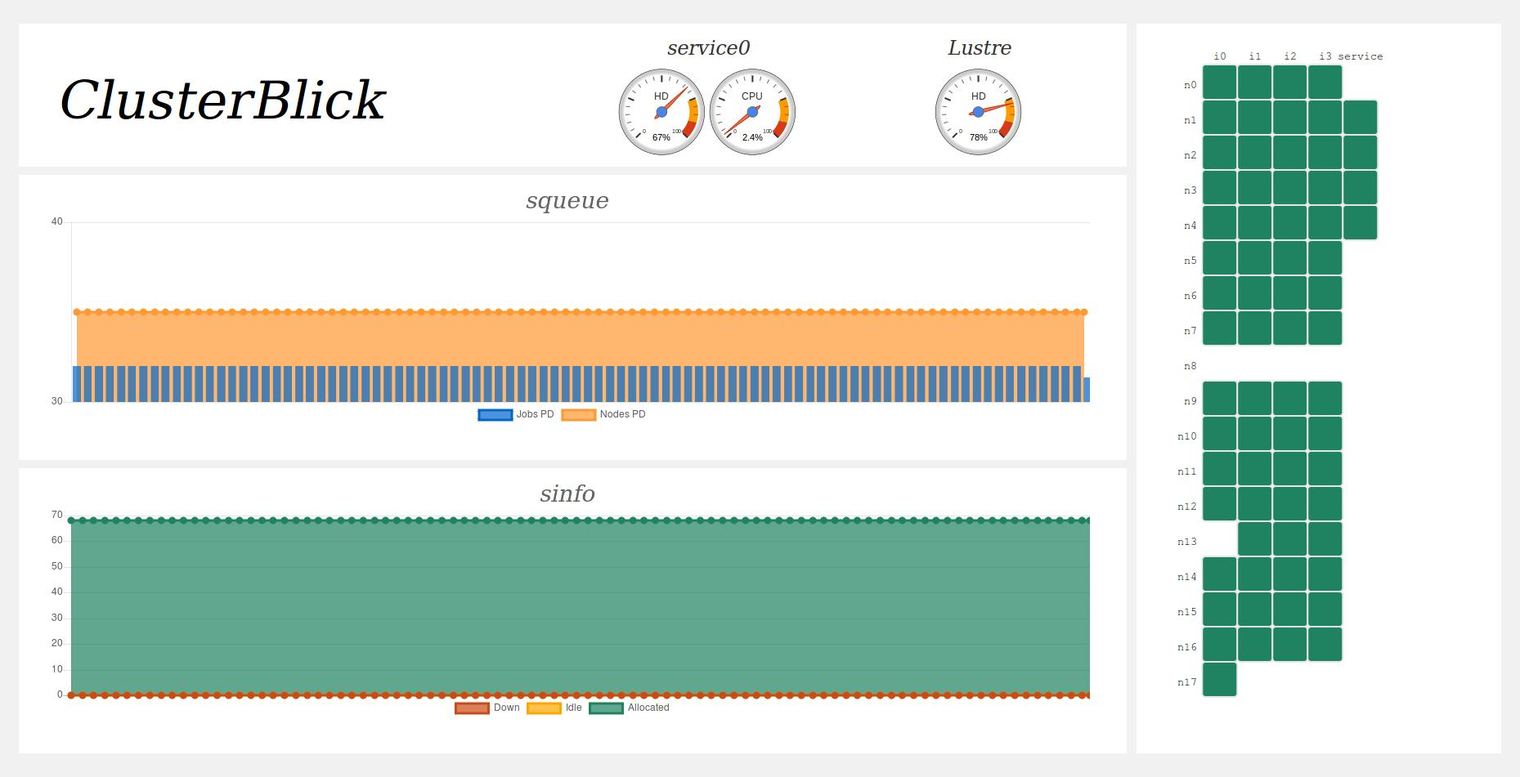
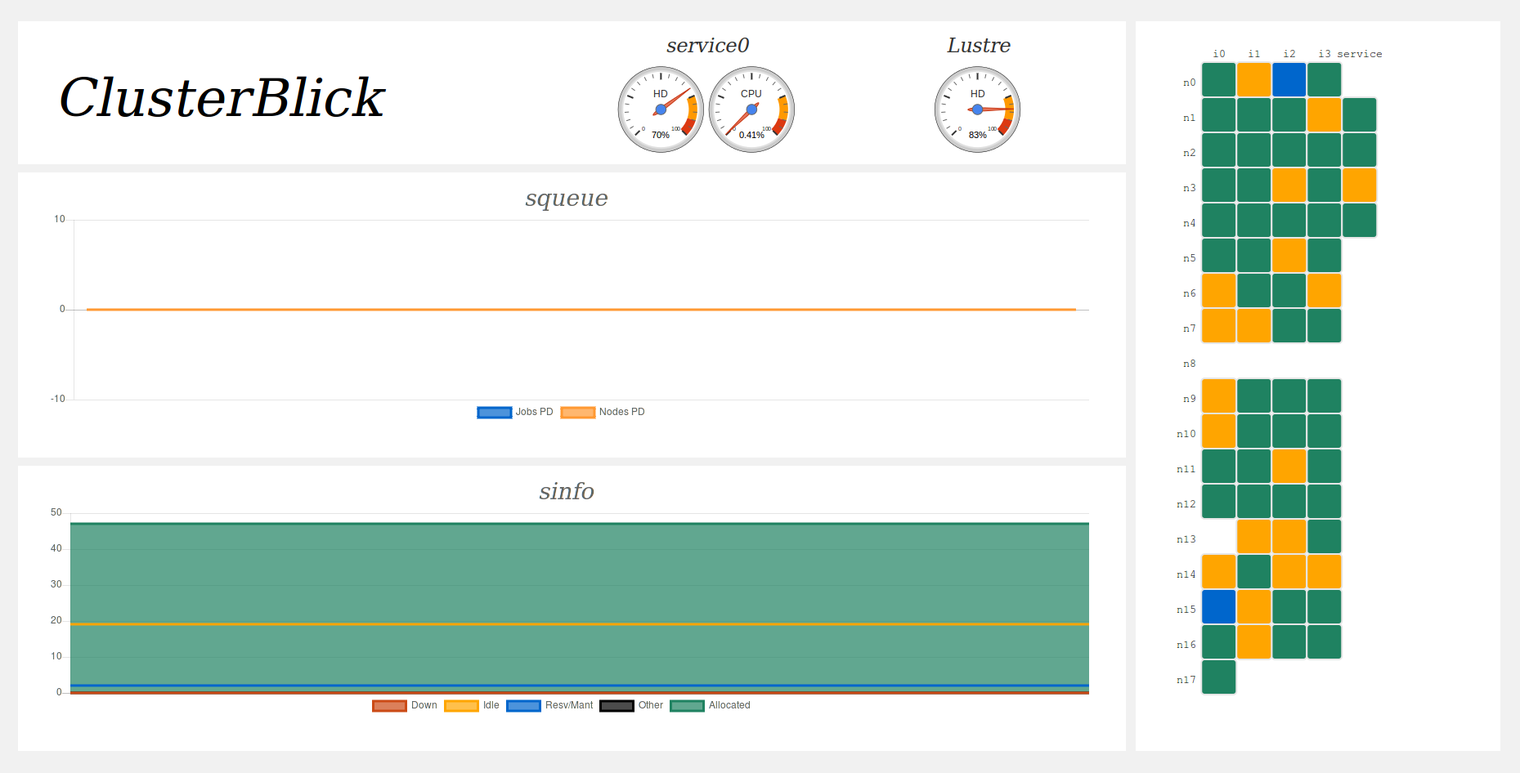
clusterblick v1.0.0

diff --git a/project/app/js/squeue1.js b/project/app/js/squeue1.js
@@ -1,1 +1,1 @@
-var squeue1 = [{"NODELIST(REASON)": "r1i2n16", "TIME": "6-16:22:03", "USER": "jldcarva", "NAME": "sat1p3", "JOBID": "21333", "NODES": "1", "PARTITION": "cluster", "ST": "R"}, {"NODELIST(REASON)": "r1i3n7", "TIME": "6-16:22:21", "USER": "jldcarva", "NAME": "sat1p1", "JOBID": "21331", "NODES": "1", "PARTITION": "cluster", "ST": "R"}, {"NODELIST(REASON)": "r1i1n9", "TIME": "6-16:22:24", "USER": "jldcarva", "NAME": "sat10p3", "JOBID": "21330", "NODES": "1", "PARTITION": "cluster", "ST": "R"}, {"NODELIST(REASON)": "r1i0n1", "TIME": "6-18:15:44", "USER": "jldcarva", "NAME": "sat10p2", "JOBID": "21329", "NODES": "1", "PARTITION": "cluster", "ST": "R"}, {"NODELIST(REASON)": "r1i2n9", "TIME": "6-18:47:18", "USER": "jldcarva", "NAME": "sat10p1", "JOBID": "21328", "NODES": "1", "PARTITION": "cluster", "ST": "R"}, {"NODELIST(REASON)": "r1i3n11", "TIME": "6-19:02:48", "USER": "jldcarva", "NAME": "sat24p3", "JOBID": "21327", "NODES": "1", "PARTITION": "cluster", "ST": "R"}, {"NODELIST(REASON)": "r1i2n2", "TIME": "6-19:04:07", "USER": "jldcarva", "NAME": "sat24p2", "JOBID": "21326", "NODES": "1", "PARTITION": "cluster", "ST": "R"}, {"NODELIST(REASON)": "r1i1n1", "TIME": "6-19:15:25", "USER": "jldcarva", "NAME": "sat24p1", "JOBID": "21325", "NODES": "1", "PARTITION": "cluster", "ST": "R"}, {"NODELIST(REASON)": "service4", "TIME": "6-22:45:42", "USER": "jldcarva", "NAME": "sat25p1", "JOBID": "21322", "NODES": "1", "PARTITION": "cluster", "ST": "R"}, {"NODELIST(REASON)": "r1i1n3", "TIME": "6-22:49:22", "USER": "jldcarva", "NAME": "sat30p1", "JOBID": "21319", "NODES": "1", "PARTITION": "cluster", "ST": "R"}, {"NODELIST(REASON)": "r1i2n1", "TIME": "5-19:08:03", "USER": "rctheodo", "NAME": "Blast", "JOBID": "21384", "NODES": "1", "PARTITION": "cluster", "ST": "R"}, {"NODELIST(REASON)": "r1i0n12", "TIME": "1-03:43:45", "USER": "clfirme", "NAME": "hdrxabe", "JOBID": "21602", "NODES": "1", "PARTITION": "cluster", "ST": "R"}, {"NODELIST(REASON)": "r1i0n2", "TIME": "2-16:28:03", "USER": "clfirme", "NAME": "e2_etoxi", "JOBID": "21503", "NODES": "1", "PARTITION": "cluster", "ST": "R"}, {"NODELIST(REASON)": "r1i2n15", "TIME": "4-15:02:53", "USER": "rmtromer", "NAME": "MD_porph", "JOBID": "21369", "NODES": "1", "PARTITION": "cluster", "ST": "R"}, {"NODELIST(REASON)": "r1i0n[3-5],r1i3n15", "TIME": "10-12:45:19", "USER": "jdandrad", "NAME": "QM.GMS", "JOBID": "21196", "NODES": "4", "PARTITION": "cluster", "ST": "R"}, {"NODELIST(REASON)": "r1i2n[4,6-7],service1", "TIME": "6-14:40:39", "USER": "lfcperei", "NAME": "lammps", "JOBID": "21309", "NODES": "4", "PARTITION": "cluster", "ST": "R"}, {"NODELIST(REASON)": "r1i1n12", "TIME": "14-07:05:08", "USER": "crcosta", "NAME": "ELF_399", "JOBID": "21003", "NODES": "1", "PARTITION": "cluster", "ST": "R"}, {"NODELIST(REASON)": "r1i3n3", "TIME": "14-07:31:52", "USER": "crcosta", "NAME": "ELF_370", "JOBID": "21002", "NODES": "1", "PARTITION": "cluster", "ST": "R"}, {"NODELIST(REASON)": "r1i3n16", "TIME": "14-07:47:49", "USER": "crcosta", "NAME": "ELF_380", "JOBID": "21001", "NODES": "1", "PARTITION": "cluster", "ST": "R"}, {"NODELIST(REASON)": "r1i3n0", "TIME": "14-07:48:19", "USER": "crcosta", "NAME": "ELF_320", "JOBID": "21000", "NODES": "1", "PARTITION": "cluster", "ST": "R"}, {"NODELIST(REASON)": "r1i0n17", "TIME": "2-01:09:18", "USER": "crcosta", "NAME": "ELF_905", "JOBID": "21537", "NODES": "1", "PARTITION": "cluster", "ST": "R"}, {"NODELIST(REASON)": "r1i3n9", "TIME": "2-01:09:21", "USER": "crcosta", "NAME": "ELF_903", "JOBID": "21535", "NODES": "1", "PARTITION": "cluster", "ST": "R"}, {"NODELIST(REASON)": "r1i0n16", "TIME": "2-01:09:21", "USER": "crcosta", "NAME": "ELF_904", "JOBID": "21536", "NODES": "1", "PARTITION": "cluster", "ST": "R"}, {"NODELIST(REASON)": "r1i1n14", "TIME": "2-01:09:24", "USER": "crcosta", "NAME": "ELF_901", "JOBID": "21533", "NODES": "1", "PARTITION": "cluster", "ST": "R"}, {"NODELIST(REASON)": "r1i3n5", "TIME": "2-01:09:24", "USER": "crcosta", "NAME": "ELF_902", "JOBID": "21534", "NODES": "1", "PARTITION": "cluster", "ST": "R"}, {"NODELIST(REASON)": "r1i1n11", "TIME": "2-01:09:28", "USER": "crcosta", "NAME": "ELF_900", "JOBID": "21532", "NODES": "1", "PARTITION": "cluster", "ST": "R"}, {"NODELIST(REASON)": "r1i1n2", "TIME": "3-20:46:28", "USER": "sddcunha", "NAME": "385_2560", "JOBID": "21451", "NODES": "1", "PARTITION": "cluster", "ST": "R"}, {"NODELIST(REASON)": "r1i3n13", "TIME": "3-21:05:54", "USER": "sddcunha", "NAME": "385_2560", "JOBID": "21448", "NODES": "1", "PARTITION": "cluster", "ST": "R"}, {"NODELIST(REASON)": "r1i1n4", "TIME": "4-01:56:55", "USER": "sddcunha", "NAME": "385_2560", "JOBID": "21440", "NODES": "1", "PARTITION": "cluster", "ST": "R"}, {"NODELIST(REASON)": "r1i3n2", "TIME": "4-01:59:09", "USER": "sddcunha", "NAME": "385_2560", "JOBID": "21438", "NODES": "1", "PARTITION": "cluster", "ST": "R"}, {"NODELIST(REASON)": "r1i0n9", "TIME": "1-07:09:56", "USER": "sddcunha", "NAME": "449_6400", "JOBID": "21598", "NODES": "1", "PARTITION": "cluster", "ST": "R"}, {"NODELIST(REASON)": "r1i0n10", "TIME": "1-07:17:56", "USER": "sddcunha", "NAME": "449_6400", "JOBID": "21597", "NODES": "1", "PARTITION": "cluster", "ST": "R"}, {"NODELIST(REASON)": "service2", "TIME": "1-21:51:49", "USER": "rmtromer", "NAME": "Fe_topCC", "JOBID": "21574", "NODES": "1", "PARTITION": "cluster", "ST": "R"}, {"NODELIST(REASON)": "r1i3n4", "TIME": "3-13:34:28", "USER": "sddcunha", "NAME": "1_256000", "JOBID": "21460", "NODES": "1", "PARTITION": "cluster", "ST": "R"}, {"NODELIST(REASON)": "r1i3n12", "TIME": "3-13:34:38", "USER": "sddcunha", "NAME": "1_256000", "JOBID": "21459", "NODES": "1", "PARTITION": "cluster", "ST": "R"}, {"NODELIST(REASON)": "r1i3n10", "TIME": "3-13:34:46", "USER": "sddcunha", "NAME": "1_256000", "JOBID": "21458", "NODES": "1", "PARTITION": "cluster", "ST": "R"}, {"NODELIST(REASON)": "r1i2n12", "TIME": "3-13:34:56", "USER": "sddcunha", "NAME": "1_256000", "JOBID": "21457", "NODES": "1", "PARTITION": "cluster", "ST": "R"}, {"NODELIST(REASON)": "r1i2n10", "TIME": "3-13:49:17", "USER": "sddcunha", "NAME": "385_2560", "JOBID": "21456", "NODES": "1", "PARTITION": "cluster", "ST": "R"}, {"NODELIST(REASON)": "r1i1n10", "TIME": "3-13:49:36", "USER": "sddcunha", "NAME": "385_2560", "JOBID": "21455", "NODES": "1", "PARTITION": "cluster", "ST": "R"}, {"NODELIST(REASON)": "r1i1n5", "TIME": "3-13:49:47", "USER": "sddcunha", "NAME": "385_2560", "JOBID": "21454", "NODES": "1", "PARTITION": "cluster", "ST": "R"}, {"NODELIST(REASON)": "r1i0n11", "TIME": "3-13:50:09", "USER": "sddcunha", "NAME": "385_2560", "JOBID": "21453", "NODES": "1", "PARTITION": "cluster", "ST": "R"}, {"NODELIST(REASON)": "r1i1n6", "TIME": "19:38:19", "USER": "joaoNPAD", "NAME": "t_6_24", "JOBID": "21624", "NODES": "1", "PARTITION": "cluster", "ST": "R"}];
+var squeue1 = [{"NODELIST(REASON)": "r1i2n16", "TIME": "6-19:57:15", "USER": "jldcarva", "NAME": "sat1p3", "JOBID": "21333", "NODES": "1", "PARTITION": "cluster", "ST": "R"}, {"NODELIST(REASON)": "r1i3n7", "TIME": "6-19:57:33", "USER": "jldcarva", "NAME": "sat1p1", "JOBID": "21331", "NODES": "1", "PARTITION": "cluster", "ST": "R"}, {"NODELIST(REASON)": "r1i1n9", "TIME": "6-19:57:36", "USER": "jldcarva", "NAME": "sat10p3", "JOBID": "21330", "NODES": "1", "PARTITION": "cluster", "ST": "R"}, {"NODELIST(REASON)": "r1i0n1", "TIME": "6-21:50:56", "USER": "jldcarva", "NAME": "sat10p2", "JOBID": "21329", "NODES": "1", "PARTITION": "cluster", "ST": "R"}, {"NODELIST(REASON)": "r1i2n9", "TIME": "6-22:22:30", "USER": "jldcarva", "NAME": "sat10p1", "JOBID": "21328", "NODES": "1", "PARTITION": "cluster", "ST": "R"}, {"NODELIST(REASON)": "r1i3n11", "TIME": "6-22:38:00", "USER": "jldcarva", "NAME": "sat24p3", "JOBID": "21327", "NODES": "1", "PARTITION": "cluster", "ST": "R"}, {"NODELIST(REASON)": "r1i2n2", "TIME": "6-22:39:19", "USER": "jldcarva", "NAME": "sat24p2", "JOBID": "21326", "NODES": "1", "PARTITION": "cluster", "ST": "R"}, {"NODELIST(REASON)": "r1i1n1", "TIME": "6-22:50:37", "USER": "jldcarva", "NAME": "sat24p1", "JOBID": "21325", "NODES": "1", "PARTITION": "cluster", "ST": "R"}, {"NODELIST(REASON)": "service4", "TIME": "7-02:20:54", "USER": "jldcarva", "NAME": "sat25p1", "JOBID": "21322", "NODES": "1", "PARTITION": "cluster", "ST": "R"}, {"NODELIST(REASON)": "r1i1n3", "TIME": "7-02:24:34", "USER": "jldcarva", "NAME": "sat30p1", "JOBID": "21319", "NODES": "1", "PARTITION": "cluster", "ST": "R"}, {"NODELIST(REASON)": "r1i2n1", "TIME": "5-22:43:15", "USER": "rctheodo", "NAME": "Blast", "JOBID": "21384", "NODES": "1", "PARTITION": "cluster", "ST": "R"}, {"NODELIST(REASON)": "r1i0n12", "TIME": "1-07:18:57", "USER": "clfirme", "NAME": "hdrxabe", "JOBID": "21602", "NODES": "1", "PARTITION": "cluster", "ST": "R"}, {"NODELIST(REASON)": "r1i0n2", "TIME": "2-20:03:15", "USER": "clfirme", "NAME": "e2_etoxi", "JOBID": "21503", "NODES": "1", "PARTITION": "cluster", "ST": "R"}, {"NODELIST(REASON)": "r1i2n15", "TIME": "4-18:38:05", "USER": "rmtromer", "NAME": "MD_porph", "JOBID": "21369", "NODES": "1", "PARTITION": "cluster", "ST": "R"}, {"NODELIST(REASON)": "r1i0n[3-5],r1i3n15", "TIME": "10-16:20:31", "USER": "jdandrad", "NAME": "QM.GMS", "JOBID": "21196", "NODES": "4", "PARTITION": "cluster", "ST": "R"}, {"NODELIST(REASON)": "r1i2n[4,6-7],service1", "TIME": "6-18:15:51", "USER": "lfcperei", "NAME": "lammps", "JOBID": "21309", "NODES": "4", "PARTITION": "cluster", "ST": "R"}, {"NODELIST(REASON)": "r1i1n12", "TIME": "14-10:40:20", "USER": "crcosta", "NAME": "ELF_399", "JOBID": "21003", "NODES": "1", "PARTITION": "cluster", "ST": "R"}, {"NODELIST(REASON)": "r1i3n3", "TIME": "14-11:07:04", "USER": "crcosta", "NAME": "ELF_370", "JOBID": "21002", "NODES": "1", "PARTITION": "cluster", "ST": "R"}, {"NODELIST(REASON)": "r1i3n16", "TIME": "14-11:23:01", "USER": "crcosta", "NAME": "ELF_380", "JOBID": "21001", "NODES": "1", "PARTITION": "cluster", "ST": "R"}, {"NODELIST(REASON)": "r1i3n0", "TIME": "14-11:23:31", "USER": "crcosta", "NAME": "ELF_320", "JOBID": "21000", "NODES": "1", "PARTITION": "cluster", "ST": "R"}, {"NODELIST(REASON)": "r1i0n17", "TIME": "2-04:44:30", "USER": "crcosta", "NAME": "ELF_905", "JOBID": "21537", "NODES": "1", "PARTITION": "cluster", "ST": "R"}, {"NODELIST(REASON)": "r1i3n9", "TIME": "2-04:44:33", "USER": "crcosta", "NAME": "ELF_903", "JOBID": "21535", "NODES": "1", "PARTITION": "cluster", "ST": "R"}, {"NODELIST(REASON)": "r1i0n16", "TIME": "2-04:44:33", "USER": "crcosta", "NAME": "ELF_904", "JOBID": "21536", "NODES": "1", "PARTITION": "cluster", "ST": "R"}, {"NODELIST(REASON)": "r1i1n14", "TIME": "2-04:44:36", "USER": "crcosta", "NAME": "ELF_901", "JOBID": "21533", "NODES": "1", "PARTITION": "cluster", "ST": "R"}, {"NODELIST(REASON)": "r1i3n5", "TIME": "2-04:44:36", "USER": "crcosta", "NAME": "ELF_902", "JOBID": "21534", "NODES": "1", "PARTITION": "cluster", "ST": "R"}, {"NODELIST(REASON)": "r1i1n11", "TIME": "2-04:44:40", "USER": "crcosta", "NAME": "ELF_900", "JOBID": "21532", "NODES": "1", "PARTITION": "cluster", "ST": "R"}, {"NODELIST(REASON)": "r1i1n2", "TIME": "4-00:21:40", "USER": "sddcunha", "NAME": "385_2560", "JOBID": "21451", "NODES": "1", "PARTITION": "cluster", "ST": "R"}, {"NODELIST(REASON)": "r1i3n13", "TIME": "4-00:41:06", "USER": "sddcunha", "NAME": "385_2560", "JOBID": "21448", "NODES": "1", "PARTITION": "cluster", "ST": "R"}, {"NODELIST(REASON)": "r1i1n4", "TIME": "4-05:32:07", "USER": "sddcunha", "NAME": "385_2560", "JOBID": "21440", "NODES": "1", "PARTITION": "cluster", "ST": "R"}, {"NODELIST(REASON)": "r1i3n2", "TIME": "4-05:34:21", "USER": "sddcunha", "NAME": "385_2560", "JOBID": "21438", "NODES": "1", "PARTITION": "cluster", "ST": "R"}, {"NODELIST(REASON)": "r1i0n0", "TIME": "2:28:44", "USER": "rmtromer", "NAME": "Co_holNC", "JOBID": "21665", "NODES": "1", "PARTITION": "cluster", "ST": "R"}, {"NODELIST(REASON)": "service2", "TIME": "2-01:27:01", "USER": "rmtromer", "NAME": "Fe_topCC", "JOBID": "21574", "NODES": "1", "PARTITION": "cluster", "ST": "R"}, {"NODELIST(REASON)": "r1i3n4", "TIME": "3-17:09:40", "USER": "sddcunha", "NAME": "1_256000", "JOBID": "21460", "NODES": "1", "PARTITION": "cluster", "ST": "R"}, {"NODELIST(REASON)": "r1i3n12", "TIME": "3-17:09:50", "USER": "sddcunha", "NAME": "1_256000", "JOBID": "21459", "NODES": "1", "PARTITION": "cluster", "ST": "R"}, {"NODELIST(REASON)": "r1i3n10", "TIME": "3-17:09:58", "USER": "sddcunha", "NAME": "1_256000", "JOBID": "21458", "NODES": "1", "PARTITION": "cluster", "ST": "R"}, {"NODELIST(REASON)": "r1i2n12", "TIME": "3-17:10:08", "USER": "sddcunha", "NAME": "1_256000", "JOBID": "21457", "NODES": "1", "PARTITION": "cluster", "ST": "R"}, {"NODELIST(REASON)": "r1i2n10", "TIME": "3-17:24:29", "USER": "sddcunha", "NAME": "385_2560", "JOBID": "21456", "NODES": "1", "PARTITION": "cluster", "ST": "R"}, {"NODELIST(REASON)": "r1i1n10", "TIME": "3-17:24:48", "USER": "sddcunha", "NAME": "385_2560", "JOBID": "21455", "NODES": "1", "PARTITION": "cluster", "ST": "R"}, {"NODELIST(REASON)": "r1i1n5", "TIME": "3-17:24:59", "USER": "sddcunha", "NAME": "385_2560", "JOBID": "21454", "NODES": "1", "PARTITION": "cluster", "ST": "R"}, {"NODELIST(REASON)": "r1i0n11", "TIME": "3-17:25:21", "USER": "sddcunha", "NAME": "385_2560", "JOBID": "21453", "NODES": "1", "PARTITION": "cluster", "ST": "R"}, {"NODELIST(REASON)": "r1i1n6", "TIME": "23:13:31", "USER": "joaoNPAD", "NAME": "t_6_24", "JOBID": "21624", "NODES": "1", "PARTITION": "cluster", "ST": "R"}];

diff --git a/project/app/js/sinfohist.js b/project/app/js/sinfohist.js
@@ -1,6 +1,6 @@
-var alloc_hist = [48, 48, 48, 48, 48, 48, 48, 48, 48, 48, 48, 48, 48, 48, 48, 48, 48, 48, 48, 48, 48, 48, 48, 48, 48, 48, 48, 48, 48, 48, 48, 48, 48, 48, 48, 48, 48, 48, 48, 48, 48, 48, 48, 48, 48, 48, 48, 48, 48, 48, 48, 48, 48, 48, 48, 48, 48, 48, 48, 48, 48, 48, 48, 48, 48, 48];
-var idle_hist = [18, 18, 18, 18, 18, 18, 18, 18, 18, 18, 18, 18, 18, 18, 18, 18, 18, 18, 18, 18, 18, 18, 18, 18, 18, 18, 18, 18, 18, 18, 18, 18, 18, 18, 18, 18, 18, 18, 18, 18, 18, 18, 18, 18, 18, 18, 18, 18, 18, 18, 18, 18, 18, 18, 18, 18, 18, 18, 18, 18, 18, 18, 18, 18, 18, 18];
-var resvmant_hist = [2, 2, 2, 2, 2, 2, 2, 2, 2, 2, 2, 2, 2, 2, 2, 2, 2, 2, 2, 2, 2, 2, 2, 2, 2, 2, 2, 2, 2, 2, 2, 2, 2, 2, 2, 2, 2, 2, 2, 2, 2, 2, 2, 2, 2, 2, 2, 2, 2, 2, 2, 2, 2, 2, 2, 2, 2, 2, 2, 2, 2, 2, 2, 2, 2, 2];
-var down_hist = [0, 0, 0, 0, 0, 0, 0, 0, 0, 0, 0, 0, 0, 0, 0, 0, 0, 0, 0, 0, 0, 0, 0, 0, 0, 0, 0, 0, 0, 0, 0, 0, 0, 0, 0, 0, 0, 0, 0, 0, 0, 0, 0, 0, 0, 0, 0, 0, 0, 0, 0, 0, 0, 0, 0, 0, 0, 0, 0, 0, 0, 0, 0, 0, 0, 0];
-var other_hist = [0, 0, 0, 0, 0, 0, 0, 0, 0, 0, 0, 0, 0, 0, 0, 0, 0, 0, 0, 0, 0, 0, 0, 0, 0, 0, 0, 0, 0, 0, 0, 0, 0, 0, 0, 0, 0, 0, 0, 0, 0, 0, 0, 0, 0, 0, 0, 0, 0, 0, 0, 0, 0, 0, 0, 0, 0, 0, 0, 0, 0, 0, 0, 0, 0, 0];
-var label_hist = ['2017-02-09 12:03:33', '2017-02-09 12:03:43', '2017-02-09 12:03:53', '2017-02-09 12:04:03', '2017-02-09 12:04:13', '2017-02-09 12:04:23', '2017-02-09 12:04:33', '2017-02-09 12:04:43', '2017-02-09 12:04:53', '2017-02-09 12:05:03', '2017-02-09 12:05:13', '2017-02-09 12:05:23', '2017-02-09 12:05:33', '2017-02-09 12:05:43', '2017-02-09 12:05:53', '2017-02-09 12:06:03', '2017-02-09 12:06:13', '2017-02-09 12:06:23', '2017-02-09 12:06:33', '2017-02-09 12:06:43', '2017-02-09 12:06:53', '2017-02-09 12:07:03', '2017-02-09 12:07:13', '2017-02-09 12:07:23', '2017-02-09 12:07:33', '2017-02-09 12:07:43', '2017-02-09 12:07:53', '2017-02-09 12:08:03', '2017-02-09 12:08:13', '2017-02-09 12:08:23', '2017-02-09 12:08:33', '2017-02-09 12:08:43', '2017-02-09 12:08:53', '2017-02-09 12:09:03', '2017-02-09 12:09:13', '2017-02-09 12:09:23', '2017-02-09 12:09:33', '2017-02-09 12:09:43', '2017-02-09 12:09:53', '2017-02-09 12:10:03', '2017-02-09 12:10:13', '2017-02-09 12:10:23', '2017-02-09 12:10:33', '2017-02-09 12:10:43', '2017-02-09 12:10:53', '2017-02-09 12:11:03', '2017-02-09 12:11:13', '2017-02-09 12:11:23', '2017-02-09 12:11:33', '2017-02-09 12:11:43', '2017-02-09 12:11:53', '2017-02-09 12:12:03', '2017-02-09 12:12:13', '2017-02-09 12:12:23', '2017-02-09 12:12:33', '2017-02-09 12:12:43', '2017-02-09 12:12:53', '2017-02-09 12:13:03', '2017-02-09 12:13:13', '2017-02-09 12:13:23', '2017-02-09 12:13:33', '2017-02-09 12:13:43', '2017-02-09 12:13:53', '2017-02-09 12:14:03', '2017-02-09 12:14:13', '2017-02-09 12:14:23'];
+var alloc_hist = [];
+var idle_hist = [];
+var resvmant_hist = [];
+var down_hist = [];
+var other_hist = [];
+var label_hist = [];

diff --git a/project/app/js/sinfo1.js b/project/app/js/sinfo1.js
@@ -1,1 +1,1 @@
-var sinfo1 = [{"AVAIL": "up", "TIMELIMIT": "20-00:00:0", "STATE": "maint", "NODELIST": "r1i0n15,r1i2n0", "NODES": "2", "PARTITION": "cluster*"}, {"AVAIL": "up", "TIMELIMIT": "20-00:00:0", "STATE": "alloc", "NODELIST": "r1i0n[1-5,9-12,16-17],r1i1n[1-6,9-12,14],r1i2n[1-2,4,6-7,9-10,12,15-16],r1i3n[0,2-5,7,9-13,15-16],service[1-2,4]", "NODES": "48", "PARTITION": "cluster*"}, {"AVAIL": "up", "TIMELIMIT": "20-00:00:0", "STATE": "idle", "NODELIST": "r1i0n[0,6-7,14],r1i1n[0,7,13,15-16],r1i2n[3,5,11,13-14],r1i3n[1,6,14],service3", "NODES": "18", "PARTITION": "cluster*"}, {"AVAIL": "up", "TIMELIMIT": "30:00", "STATE": "maint", "NODELIST": "r1i0n15,r1i2n0", "NODES": "2", "PARTITION": "test"}, {"AVAIL": "up", "TIMELIMIT": "30:00", "STATE": "alloc", "NODELIST": "r1i0n[1-5,9-12,16-17],r1i1n[1-6,9-12,14],r1i2n[1-2,4,6-7,9-10,12,15-16],r1i3n[0,2-5,7,9-13,15-16],service[1-2,4]", "NODES": "48", "PARTITION": "test"}, {"AVAIL": "up", "TIMELIMIT": "30:00", "STATE": "idle", "NODELIST": "r1i0n[0,6-7,14],r1i1n[0,7,13,15-16],r1i2n[3,5,11,13-14],r1i3n[1,6,14],service3", "NODES": "18", "PARTITION": "test"}, {"AVAIL": "up", "TIMELIMIT": "20-00:00:0", "STATE": "alloc", "NODELIST": "service[1-2,4]", "NODES": "3", "PARTITION": "service"}, {"AVAIL": "up", "TIMELIMIT": "20-00:00:0", "STATE": "idle", "NODELIST": "service3", "NODES": "1", "PARTITION": "service"}];
+var sinfo1 = [{"AVAIL": "up", "TIMELIMIT": "20-00:00:0", "STATE": "maint", "NODELIST": "r1i0n15,r1i2n0,service3", "NODES": "3", "PARTITION": "cluster*"}, {"AVAIL": "up", "TIMELIMIT": "20-00:00:0", "STATE": "alloc", "NODELIST": "r1i0n[0-5,11-12,16-17],r1i1n[1-6,9-12,14],r1i2n[1-2,4,6-7,9-10,12,15-16],r1i3n[0,2-5,7,9-13,15-16],service[1-2,4]", "NODES": "47", "PARTITION": "cluster*"}, {"AVAIL": "up", "TIMELIMIT": "20-00:00:0", "STATE": "idle", "NODELIST": "r1i0n[6-7,9-10,14],r1i1n[0,7,13,15-16],r1i2n[3,5,11,13-14],r1i3n[1,6,14]", "NODES": "18", "PARTITION": "cluster*"}, {"AVAIL": "up", "TIMELIMIT": "30:00", "STATE": "maint", "NODELIST": "r1i0n15,r1i2n0,service3", "NODES": "3", "PARTITION": "test"}, {"AVAIL": "up", "TIMELIMIT": "30:00", "STATE": "alloc", "NODELIST": "r1i0n[0-5,11-12,16-17],r1i1n[1-6,9-12,14],r1i2n[1-2,4,6-7,9-10,12,15-16],r1i3n[0,2-5,7,9-13,15-16],service[1-2,4]", "NODES": "47", "PARTITION": "test"}, {"AVAIL": "up", "TIMELIMIT": "30:00", "STATE": "idle", "NODELIST": "r1i0n[6-7,9-10,14],r1i1n[0,7,13,15-16],r1i2n[3,5,11,13-14],r1i3n[1,6,14]", "NODES": "18", "PARTITION": "test"}, {"AVAIL": "up", "TIMELIMIT": "20-00:00:0", "STATE": "maint", "NODELIST": "service3", "NODES": "1", "PARTITION": "service"}, {"AVAIL": "up", "TIMELIMIT": "20-00:00:0", "STATE": "alloc", "NODELIST": "service[1-2,4]", "NODES": "3", "PARTITION": "service"}];

diff --git a/project/app/js/nodes_sinfo.js b/project/app/js/nodes_sinfo.js
@@ -1,13 +1,12 @@
 var nodes = [
 {"i": "0", "state": "maint", "r": "1", "name": "r1i0n15", "n": "15"}, 
-{"i": "2", "state": "maint", "r": "1", "name": "r1i2n0", "n": "0"}, 
+{"i": "service", "state": "maint", "r": "service", "name": "r1i2n0,service3", "n": "3"}, 
+{"i": "0", "state": "alloc", "r": "1", "name": "r1i0n0", "n": "0"}, 
 {"i": "0", "state": "alloc", "r": "1", "name": "r1i0n1", "n": "1"}, 
 {"i": "0", "state": "alloc", "r": "1", "name": "r1i0n2", "n": "2"}, 
 {"i": "0", "state": "alloc", "r": "1", "name": "r1i0n3", "n": "3"}, 
 {"i": "0", "state": "alloc", "r": "1", "name": "r1i0n4", "n": "4"}, 
 {"i": "0", "state": "alloc", "r": "1", "name": "r1i0n5", "n": "5"}, 
-{"i": "0", "state": "alloc", "r": "1", "name": "r1i0n9", "n": "9"}, 
-{"i": "0", "state": "alloc", "r": "1", "name": "r1i0n10", "n": "10"}, 
 {"i": "0", "state": "alloc", "r": "1", "name": "r1i0n11", "n": "11"}, 
 {"i": "0", "state": "alloc", "r": "1", "name": "r1i0n12", "n": "12"}, 
 {"i": "0", "state": "alloc", "r": "1", "name": "r1i0n16", "n": "16"}, 
@@ -46,9 +45,10 @@ var nodes = [
 {"i": "3", "state": "alloc", "r": "1", "name": "r1i3n13", "n": "13"}, 
 {"i": "3", "state": "alloc", "r": "1", "name": "r1i3n15", "n": "15"}, 
 {"i": "3", "state": "alloc", "r": "1", "name": "r1i3n16", "n": "16"}, 
-{"i": "0", "state": "idle", "r": "1", "name": "r1i0n0", "n": "0"}, 
 {"i": "0", "state": "idle", "r": "1", "name": "r1i0n6", "n": "6"}, 
 {"i": "0", "state": "idle", "r": "1", "name": "r1i0n7", "n": "7"}, 
+{"i": "0", "state": "idle", "r": "1", "name": "r1i0n9", "n": "9"}, 
+{"i": "0", "state": "idle", "r": "1", "name": "r1i0n10", "n": "10"}, 
 {"i": "0", "state": "idle", "r": "1", "name": "r1i0n14", "n": "14"}, 
 {"i": "1", "state": "idle", "r": "1", "name": "r1i1n0", "n": "0"}, 
 {"i": "1", "state": "idle", "r": "1", "name": "r1i1n7", "n": "7"}, 
@@ -63,7 +63,7 @@ var nodes = [
 {"i": "3", "state": "idle", "r": "1", "name": "r1i3n1", "n": "1"}, 
 {"i": "3", "state": "idle", "r": "1", "name": "r1i3n6", "n": "6"}, 
 {"i": "3", "state": "idle", "r": "1", "name": "r1i3n14", "n": "14"}, 
+{"i": "service", "state": "maint", "r": "service", "name": "service3", "n": "3"}, 
 {"i": "service", "state": "alloc", "r": "service", "name": "service1", "n": "1"}, 
 {"i": "service", "state": "alloc", "r": "service", "name": "service2", "n": "2"}, 
-{"i": "service", "state": "alloc", "r": "service", "name": "service4", "n": "4"}, 
-{"i": "service", "state": "idle", "r": "service", "name": "service3", "n": "3"}];
+{"i": "service", "state": "alloc", "r": "service", "name": "service4", "n": "4"}];

diff --git a/project/app/js/queuehist.js b/project/app/js/queuehist.js
@@ -1,3 +1,3 @@
-var sumnodepd = [0, 0, 0, 0, 0, 0, 0, 0, 0, 0, 0, 0, 0, 0, 0, 0, 0, 0, 0, 0, 0, 0, 0, 0, 0, 0, 0, 0, 0, 0, 0, 0, 0, 0, 0, 0, 0, 0, 0, 0, 0, 0, 0, 0, 0, 0, 0, 0, 0, 0, 0, 0, 0, 0, 0, 0, 0, 0, 0, 0, 0, 0, 0, 0, 0, 0];
-var sumjobspd = [0, 0, 0, 0, 0, 0, 0, 0, 0, 0, 0, 0, 0, 0, 0, 0, 0, 0, 0, 0, 0, 0, 0, 0, 0, 0, 0, 0, 0, 0, 0, 0, 0, 0, 0, 0, 0, 0, 0, 0, 0, 0, 0, 0, 0, 0, 0, 0, 0, 0, 0, 0, 0, 0, 0, 0, 0, 0, 0, 0, 0, 0, 0, 0, 0, 0];
-var label_hist = ['2017-02-09 12:03:33', '2017-02-09 12:03:43', '2017-02-09 12:03:53', '2017-02-09 12:04:03', '2017-02-09 12:04:13', '2017-02-09 12:04:23', '2017-02-09 12:04:33', '2017-02-09 12:04:43', '2017-02-09 12:04:53', '2017-02-09 12:05:03', '2017-02-09 12:05:13', '2017-02-09 12:05:23', '2017-02-09 12:05:33', '2017-02-09 12:05:43', '2017-02-09 12:05:53', '2017-02-09 12:06:03', '2017-02-09 12:06:13', '2017-02-09 12:06:23', '2017-02-09 12:06:33', '2017-02-09 12:06:43', '2017-02-09 12:06:53', '2017-02-09 12:07:03', '2017-02-09 12:07:13', '2017-02-09 12:07:23', '2017-02-09 12:07:33', '2017-02-09 12:07:43', '2017-02-09 12:07:53', '2017-02-09 12:08:03', '2017-02-09 12:08:13', '2017-02-09 12:08:23', '2017-02-09 12:08:33', '2017-02-09 12:08:43', '2017-02-09 12:08:53', '2017-02-09 12:09:03', '2017-02-09 12:09:13', '2017-02-09 12:09:23', '2017-02-09 12:09:33', '2017-02-09 12:09:43', '2017-02-09 12:09:53', '2017-02-09 12:10:03', '2017-02-09 12:10:13', '2017-02-09 12:10:23', '2017-02-09 12:10:33', '2017-02-09 12:10:43', '2017-02-09 12:10:53', '2017-02-09 12:11:03', '2017-02-09 12:11:13', '2017-02-09 12:11:23', '2017-02-09 12:11:33', '2017-02-09 12:11:43', '2017-02-09 12:11:53', '2017-02-09 12:12:03', '2017-02-09 12:12:13', '2017-02-09 12:12:23', '2017-02-09 12:12:33', '2017-02-09 12:12:43', '2017-02-09 12:12:53', '2017-02-09 12:13:03', '2017-02-09 12:13:13', '2017-02-09 12:13:23', '2017-02-09 12:13:33', '2017-02-09 12:13:43', '2017-02-09 12:13:53', '2017-02-09 12:14:03', '2017-02-09 12:14:13', '2017-02-09 12:14:23'];
+var sumnodepd = [];
+var sumjobspd = [];
+var label_hist = [];

diff --git a/project/app/js/sinfohist_line.js b/project/app/js/sinfohist_line.js
@@ -14,7 +14,7 @@ var canvas = document.getElementById('updating-chart'),
             pointBorderWidth: 5,
             pointHoverRadius: 10,
             pointHoverBackgroundColor: "rgba(203, 75, 22,1)",
-            pointRadius: 1,
+            pointRadius: 0,
             pointHitRadius: 10,
             data: down_hist
           },
@@ -28,7 +28,7 @@ var canvas = document.getElementById('updating-chart'),
             pointBorderWidth: 5,
             pointHoverRadius: 10,
             pointHoverBackgroundColor: "rgba(255, 165, 0,1)",
-            pointRadius: 1,
+            pointRadius: 0,
             pointHitRadius: 10,
             data: idle_hist
           },
@@ -42,7 +42,7 @@ var canvas = document.getElementById('updating-chart'),
             pointBorderWidth: 5,
             pointHoverRadius: 10,
             pointHoverBackgroundColor: "rgba(0,102,204,1)",
-            pointRadius: 1,
+            pointRadius: 0,
             pointHitRadius: 10,
             data: resvmant_hist
           },
@@ -56,7 +56,7 @@ var canvas = document.getElementById('updating-chart'),
             pointBorderWidth: 5,
             pointHoverRadius: 10,
             pointHoverBackgroundColor: "rgba(0,0,0,1)",
-            pointRadius: 1,
+            pointRadius: 0,
             pointHitRadius: 10,
             data: other_hist
           },
@@ -70,7 +70,7 @@ var canvas = document.getElementById('updating-chart'),
             pointBorderWidth: 5,
             pointHoverRadius: 10,
             pointHoverBackgroundColor: "rgba(31, 130, 97,1)",
-            pointRadius: 1,
+            pointRadius: 0,
             pointHitRadius: 10,
             data: alloc_hist
           }

diff --git a/project/app/js/dfh1.js b/project/app/js/dfh1.js
@@ -1,1 +1,1 @@
-var dfh1 = [{"Avail": "799G", "Use%": "70%", "Used": "1,8T", "Filesystem": "/dev/sda31", "Mounted": "/", "Size": "2,7T"}, {"Avail": "63G", "Use%": "1%", "Used": "60K", "Filesystem": "tmpfs", "Mounted": "/dev/shm", "Size": "63G"}, {"Avail": "227M", "Use%": "18%", "Used": "49M", "Filesystem": "/dev/sda11", "Mounted": "/boot", "Size": "291M"}, {"Avail": "9,8T", "Use%": "83%", "Used": "46T", "Filesystem": "mds01.ib1@o2ib1:/lustre1", "Mounted": "/misc/lustre1", "Size": "59T"}];
+var dfh1 = [{"Avail": "800G", "Use%": "70%", "Used": "1,8T", "Filesystem": "/dev/sda31", "Mounted": "/", "Size": "2,7T"}, {"Avail": "63G", "Use%": "1%", "Used": "76K", "Filesystem": "tmpfs", "Mounted": "/dev/shm", "Size": "63G"}, {"Avail": "227M", "Use%": "18%", "Used": "49M", "Filesystem": "/dev/sda11", "Mounted": "/boot", "Size": "291M"}, {"Avail": "9,8T", "Use%": "83%", "Used": "46T", "Filesystem": "mds01.ib1@o2ib1:/lustre1", "Mounted": "/misc/lustre1", "Size": "59T"}];

diff --git a/project/app/js/squeuehist_chart.js b/project/app/js/squeuehist_chart.js
@@ -16,7 +16,7 @@ var queueHistChart = new Chart(ctx, {
                 pointBorderWidth: 0,
                 pointHoverRadius: 10,
                 pointHoverBackgroundColor: "rgba(0,102,204,1)",
-                pointRadius: 2,
+                pointRadius: 0,
                 pointHitRadius: 10,
                 data: sumjobspd,
             },
@@ -31,7 +31,7 @@ var queueHistChart = new Chart(ctx, {
                 pointBorderWidth: 5,
                 pointHoverRadius: 5,
                 pointHoverBackgroundColor: "rgba(255,153,51,1)",
-                pointRadius: 2,
+                pointRadius: 0,
                 pointHitRadius: 10,
                 data: sumnodepd,
             }

diff --git a/project/app/js/nodes_stats.js b/project/app/js/nodes_stats.js
@@ -1,1 +1,1 @@
-var stats = {"allocs": 48, "resvmants": 2, "idles": 18, "downs": 0, "others": 0};
+var stats = {"allocs": 47, "resvmants": 3, "idles": 18, "downs": 0, "others": 0};

diff --git a/project/app/js/s0cpu.js b/project/app/js/s0cpu.js
@@ -1,1 +1,1 @@
-var s0cpu = 0.42;
+var s0cpu = 0.83;

diff --git a/project/main.py b/project/main.py
@@ -1,14 +1,12 @@
-import time
-import sys
+import time, sys, os, json, datetime
 sys.path.insert(0, './tools/')
 import readRawData as r, sendEmail as e, readConfig as c, dataHandler as handler
-import json
-import datetime
 from collections import deque
-import subprocess
+import webbrowser
 
-
-#todo: rendering index
+#rendering index.html
+url = 'file:///home/foo/bar/clusterblick/project/app/index.html'
+webbrowser.open(url, new=2)  # open in new tab
 
 #rendering configurations
 config = c.readConfig('config.txt','all')
@@ -17,10 +15,12 @@ config = c.readConfig('config.txt','all')
 alloc_hist,idle_hist,resvmant_hist,down_hist,other_hist,label_hist,nodepd_hist,jobspd_hist = deque(),deque(),deque(),deque(),deque(),deque(),deque(),deque()
 list_hist=[]
 frequency=0
+first_time=1
 th_enable=datetime.datetime.now()-datetime.timedelta(seconds=10)
 
 #command to run slurmblick bash exec
-slurmblick = 'echo nothing'
+slurmblick = "./slurm-src/slurmblick \"/home/user_service/clusterblick/raw\" \"user_localhost@ip_localhost:/home/user/foo/clusterblick/project/tools/raw\" \"ip_service\" \"port_service\" \"user_service\""
+
 
 print '----------------------------------\nClusterBlick on\n----------------------------------\n\n'
 try:
@@ -28,15 +28,14 @@ try:
 		now = datetime.datetime.now()
 
 		#do every 10 seconds
-		if now-th_enable>datetime.timedelta(seconds=10):
+		if now-th_enable>datetime.timedelta(seconds=100):
 			#time controllers
 			th_enable=datetime.datetime.now()
 			frequency+=1
 			print '\n',th_enable
 
 			try:
-				process = subprocess.Popen(slurmblick.split(), stdout=subprocess.PIPE)
-				output, error = process.communicate()
+				os.system(slurmblick)
 				print '0 - slurmblick sucessfuly run in the cluster'
 			except:
 				print ">>except: slurmblick does not sucessfuly attend cluster report"
@@ -62,7 +61,7 @@ try:
 			print '\n'
 
 		#do every 5 minutes
-		if frequency>=1:#1 to test, 60 to real
+		if frequency>=3:#1 to test, 30 to real using
 			frequency=0
 
 			#appending new data
